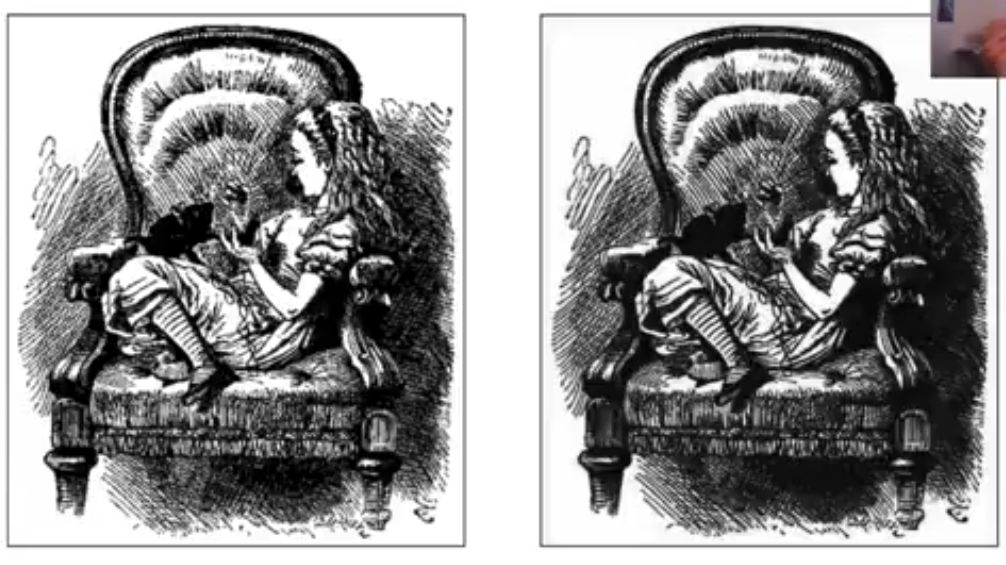
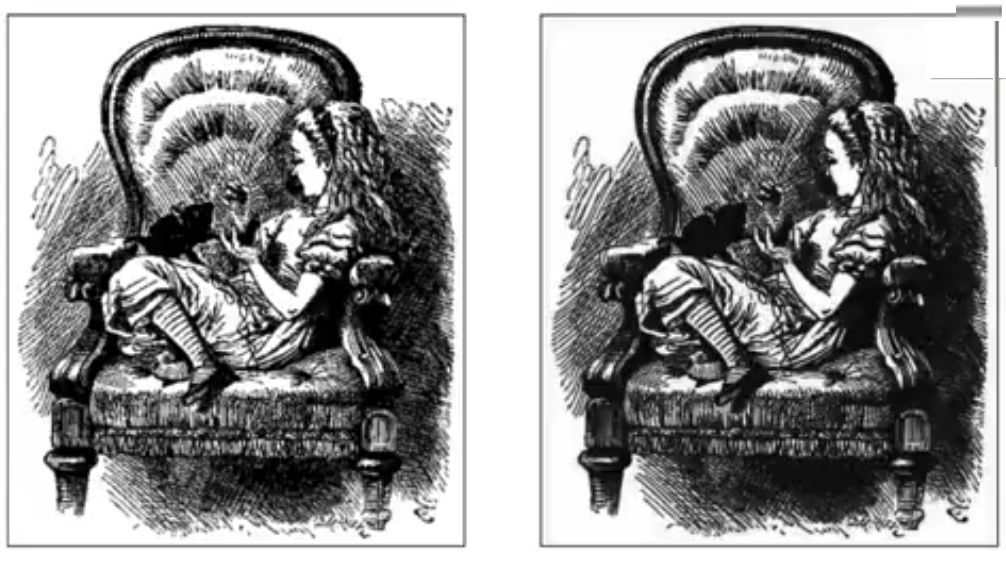
#18 Tidied figure and updated text

Changed region(s): [[0.9245, 0.0, 1.0, 0.3009]]

diff --git a/rn/renormalization.tex b/rn/renormalization.tex
@@ -67,10 +67,7 @@ The source for this document can be found at\\
 
 We'll be talking in this unit about "Renormalization". It's fair enough to say that since 1950 the most interesting thing, in fact, perhaps the only thing that has driven theoretical physics has been the problem of Renormalization. In pursuit of understanding what on Earth that was, we developed an enormous amount of extremely complicated mathematics.
 
-When I\footnote{i.e. Simon DeDeo} came to work in the Cognitive 
-Sciences, when I came to study social systems, and social behaviour, 
-what I realized is that the tools that we had developed in physics for Renormalization, and, in fact, not just the tools but the underlying 
-concepts, became incredibly useful for trying to understand a very different kind of problem.
+When Simon DeDeo came to work in the Cognitive Sciences, when he came to study social systems, and social behaviour,  he realized  that the tools that had developed in physics for Renormalization, and, in fact, not just the tools but the underlying concepts, became incredibly useful for trying to understand a very different kind of problem.
 
 Renormalization is a general set of tools for how theory simplifies; it is a set of tools to tell you how to throw out information about the world; how to throw out things you may not know, you may not be able to know, and how to throw out 
 things in fact you may not even care about; to throw out the stuff that you think is irrelevant.
@@ -85,73 +82,25 @@ That's macroeconomics, but we know of course that something like the number of p
 the same way that we say the electric field is a fundamental variable, or that the pH of a solution in your blood is a fundamental variable.
 
 This, in fact, is a summary of an incredibly complicated 
-and messy world that  people inhabit. And moment to moment, certainly not year to year, every second, people in the actual economy are making deals, they are trading money, They are hiring each other, they are getting jobs, they are losing jobs, right? And so, in fact, the actual story of how the economy works 
-is a series of second by second accounts of everything 
-that happens within, let's say, the United States 
-or indeed everything that happens
-within the global economy, 
-within the aspects of human behaviour 
+and messy world that  people inhabit. And moment to moment, certainly not year to year, every second, people in the actual economy are making deals, they are trading money, They are hiring each other, they are getting jobs, they are losing jobs, right? And so, in fact, the actual story of how the economy works is a series of second by second accounts of everything that happens within, let's say, the United States or indeed everything that happens within the global economy, within the aspects of human behaviour 
 we think of as economic.
 
 And so, what macroeconomics does is, in fact, an attempt is to summarize everything that's going on in the economy at one point in time and build a theory about what's going to happen next, operating only with these variables here.
 
-But the actual reality of the 
-situation is far more complicated,
-and at the end of 2009, let's say 
-when the indicators come out,
-that's the product, in fact, of many, 
-many evolutionary steps.
- Just second-by-second moments in 
-the history of actually what happened.
+But the actual reality of the situation is far more complicated, and at the end of 2009, let's say when the indicators come out, that's the product, in fact, of many, 
+many evolutionary steps.  Just second-by-second moments in the history of actually what happened.
 
-So, if we had Godlike powers, if we
-know everything and predict everything,
-we'd have no need for this up here.
-All we do is to look at 
-the world as it is.
-And then we'd evolve it 
-forward in time
-through some sort of massive eight
-billion person strong agent-based model.
-And, occasionally, if somebody, 
-for some reasons, says
-"oh, what's the unemployment
-is going to be in 2011?",
-we just take a snapshot of the 
-system much later,
-summarize it,
-and get a new set of statistics here.
+If we knew everything and could predict everything, we'd have no need for this up here. All we do is to look at the world as it is.
+And then we'd evolve it forward in time through some sort of massive eight billion person strong agent-based model. And, occasionally, if somebody, for some reasons, says ''oh, what's the unemployment is going to be in 2011?'', we just take a snapshot of the system much later, summarize it, and get a new set of statistics here.
 
-The problem is not only is operating at this level impossible;
-it's also perhaps not even 
-useful because even if our
-computer could simulate step-by-step 
-what happens in the world,
-it may not focus our attention on
-what actually matters.
-So, one person, let's say, gets a
-job in one part of the country,
-how important is that?
-If we're a policy maker, 
-for example,
-should we intervene here?
+The problem is not only is operating at this level impossible; it's also perhaps not even useful because even if our computer could simulate step-by-step what happens in the world, it may not focus our attention on what actually matters.
+So, one person, let's say, gets a job in one part of the country, how important is that?
+If we're a policy maker, for example, should we intervene here?
 or should we intervene here?
 
-One thing macroeconomics has 
-been going for is not just simplicity.
-The number of equations a good 
-macroeconomic theory might need
-to go from here to here, is much 
-smaller than the massive number
-of equations you need to go 
-from here to here to here
-every step along the way.
-Not only is the macroeconomist
-more efficient,
-but it may be the case 
-that these higher level
-variables are somehow more 
-useful, more explanatory.
+One thing macroeconomics has been going for is not just simplicity.
+The number of equations a good  macroeconomic theory might need to go from here to here, is much smaller than the massive number of equations you need to go from here to here to here every step along the way.
+Not only is the macroeconomist more efficient, but it may be the case that these higher level variables are somehow more useful, more explanatory.
 
 And, of course, we 
 do this all the time.
@@ -415,8 +364,10 @@ I do a much less aggressive compression
 where I only take little 3x3 grids.
 
 \begin{figure}[h]
-	\caption{Two coarse-graining schemes}
-	\includegraphics[width=0.8\textwidth]{Alice6}
+	\begin{center}
+		\caption{Two coarse-graining schemes}\label{fig:alice:2:schemes}
+		\includegraphics[width=0.8\textwidth]{Alice6}
+	\end{center}
 \end{figure}
 If you compare how ugly
 the 10x10 grid compression is,
@@ -441,16 +392,10 @@ that people don't need,
 in order to allow the image
 to be transmitted faster,
 to be stored more conveniently.
-So, on the right-hand side here,
-we also have a coarse graining
-of the Alice image,
-but now using a coarse-graining algorithm
-called the JPEG.
-No one's ever referred to the JPEG
-as a coarse-graining algorithm,
-at least they don't do it that much.
-What you can see is both images
-look reasonably good.
+So, on the right-hand side here--Figure \ref{fig:alice:2:schemes}--
+we also have a coarse graining of the Alice image, but now using a coarse-graining algorithm called the JPEG.
+No one's ever referred to the JPEG as a coarse-graining algorithm, at least they don't do it that much.
+What you can see is both images look reasonably good.
 In fact, they have different properties,
 so let's go zoom in here on Dinah.
 What you can see on the left-hand side
@@ -617,7 +562,7 @@ that were nearby each other in space
 and I summarized them in some way.
 So in the majority-rule case, for example,
 all I did was, I took all the pixels
-in a certain grid square, and I said, OK,
+in a certain grid square, and I said, 
 if the number of black pixels
 outnumbers the number of white pixels,
 then that pixel will be black,
@@ -663,7 +608,7 @@ is a problem that we often
 don't think about 'til
 right at the end, but here,
 we took the majority vote.
-We're saying, OK, look, you know
+We're saying,  look you know
 if this pixel, if this kind of collection
 of pixels here is mostly black,
 let's just call it black.
@@ -708,33 +653,23 @@ the coarse-graining is when we begin,
 and in fact, we'll do something
 really simple, like use
 a clustering algorithm.
-And so a classic example of clustering
-might be k-means.
-So what does k-means do,
-what does a k-means algorithm do?
-If you haven't heard this term,
-don't worry; I'm going to tell you
-what it means and you can go
-look it up and do it
-to your heart's content.
 
-k-means takes a set of high-dimensional
-data, and because we can't afford
-a high-dimensional whiteboard,
-we only have two,
+A classic example of clustering is k-means.
+This takes a set of high-dimensional data, and because we can't afford
+a high-dimensional whiteboard, we only have two,
 so what I'm going to do here is,
 I'm going to put a lot of
 data points here, and maybe, for example,
 this axis here is height,
-and this axis here is weight, OK,
+and this axis here is weight, 
 and these points here refer
 to individuals of a species
 that you've captured in the wild,
 maybe these are birds, right.
 And so what k-means will do is,
 it will take that rich description,
-OK, where every individual is
-described by a real number, OK,
+where every individual is
+described by a real number, 
 on both the x and y axes here,
 each bird you've caught, let's say,
 has a certain height and a certain weight,
@@ -743,7 +678,7 @@ laboriously, you know,
 maybe you're in some tropical country,
 like you're in Costa Rica or something,
 which seems to be where
-all the bird people go, OK,
+all the bird people go, 
 and then you say, well, I don't know,
 something's going on there,
 and you hand it to k-means, which says,
@@ -762,13 +697,13 @@ vector space into a binary set, A and B.
 So in general, when you call up
 a clustering algorithm,
 really what you're asking it to do
-is coarse-grain my data, OK,
+is coarse-grain my data, 
 and then if you're a biologist,
 you might be like, you know,
 there's something funny, like
 all the A birds, they're all female,
-let's say, and all the B birds, OK,
-they're all male, OK,
+let's say, and all the B birds, 
+they're all male, 
 and now you feel really good
 because in fact what you've done is,
 you've discovered, using this data
@@ -788,14 +723,14 @@ in fact, k-means operates with a notion
 of closeness just as the
 Alice in Wonderland coarse-graining did.
 In both cases, we were saying that
-things that were near each other, OK,
+things that were near each other, 
 should probably be described by
 a single description, right?
 All these points here get
 the description A; all these points here
 get the description B.
 k-means is in fact an example of
-what we call a hard clustering, OK,
+what we call a hard clustering, 
 and in this case here it says that
 each point is uniquely assigned
 to a single cluster, and this kind of
@@ -827,10 +762,10 @@ they have a particular variance
 and covariance matrix,
 so they kind of, like,
 these little sausages that lie here,
-right, OK, and so what the GMM does is,
+right,  and so what the GMM does is,
 it produces a Bayesian model
 of the way your data might have been
-created, OK, and then for each point here,
+created,  and then for each point here,
 it tells you the probability that that point
 was drawn either from this Gaussian ---
 we'll call that $G_1$ --- or this
@@ -853,13 +788,13 @@ of $G_1$ and a much lower probability of
 being a member of $G_2$.
 So these are subtly different concepts
 here --- there's the hard clustering case
-when it takes each point and says, OK,
+when it takes each point and says, 
 here is the coarse-grained category
 you belong to. Just as in the case of the
 Alice in Wonderland algorithm, what
 we did was, we took that little
 grid square, that ten-by-ten grid,
-and we say, OK, you're majority zero,
+and we say,  you're majority zero,
 therefore you belong to
 the category zero, you're majority one,
 you belong to the category one.
@@ -1068,7 +1003,7 @@ original image and still if the coarse-
 graining prescription is chosen well,
 still keep some kind of sense of what's
 happening in the system itself, what's
-happening in this image, and so ok, maybe
+happening in this image, and so  maybe
 you're not quite sure what kind of
 animal Alice is playing with at this
 point but at least you know that she's
@@ -1145,8 +1080,7 @@ coarse-grain the data and what happens
 when you look at the underlying
 structures of the models that that
 coarse-graining demands. Surprisingly as
-we'll see sometimes when you course-
-grain the data the models that you need
+we'll see sometimes when you course-grain the data the models that you need
 get more complicated. Sometimes
 conversely they simplify and it'll be
 that kind of process that we'll study
